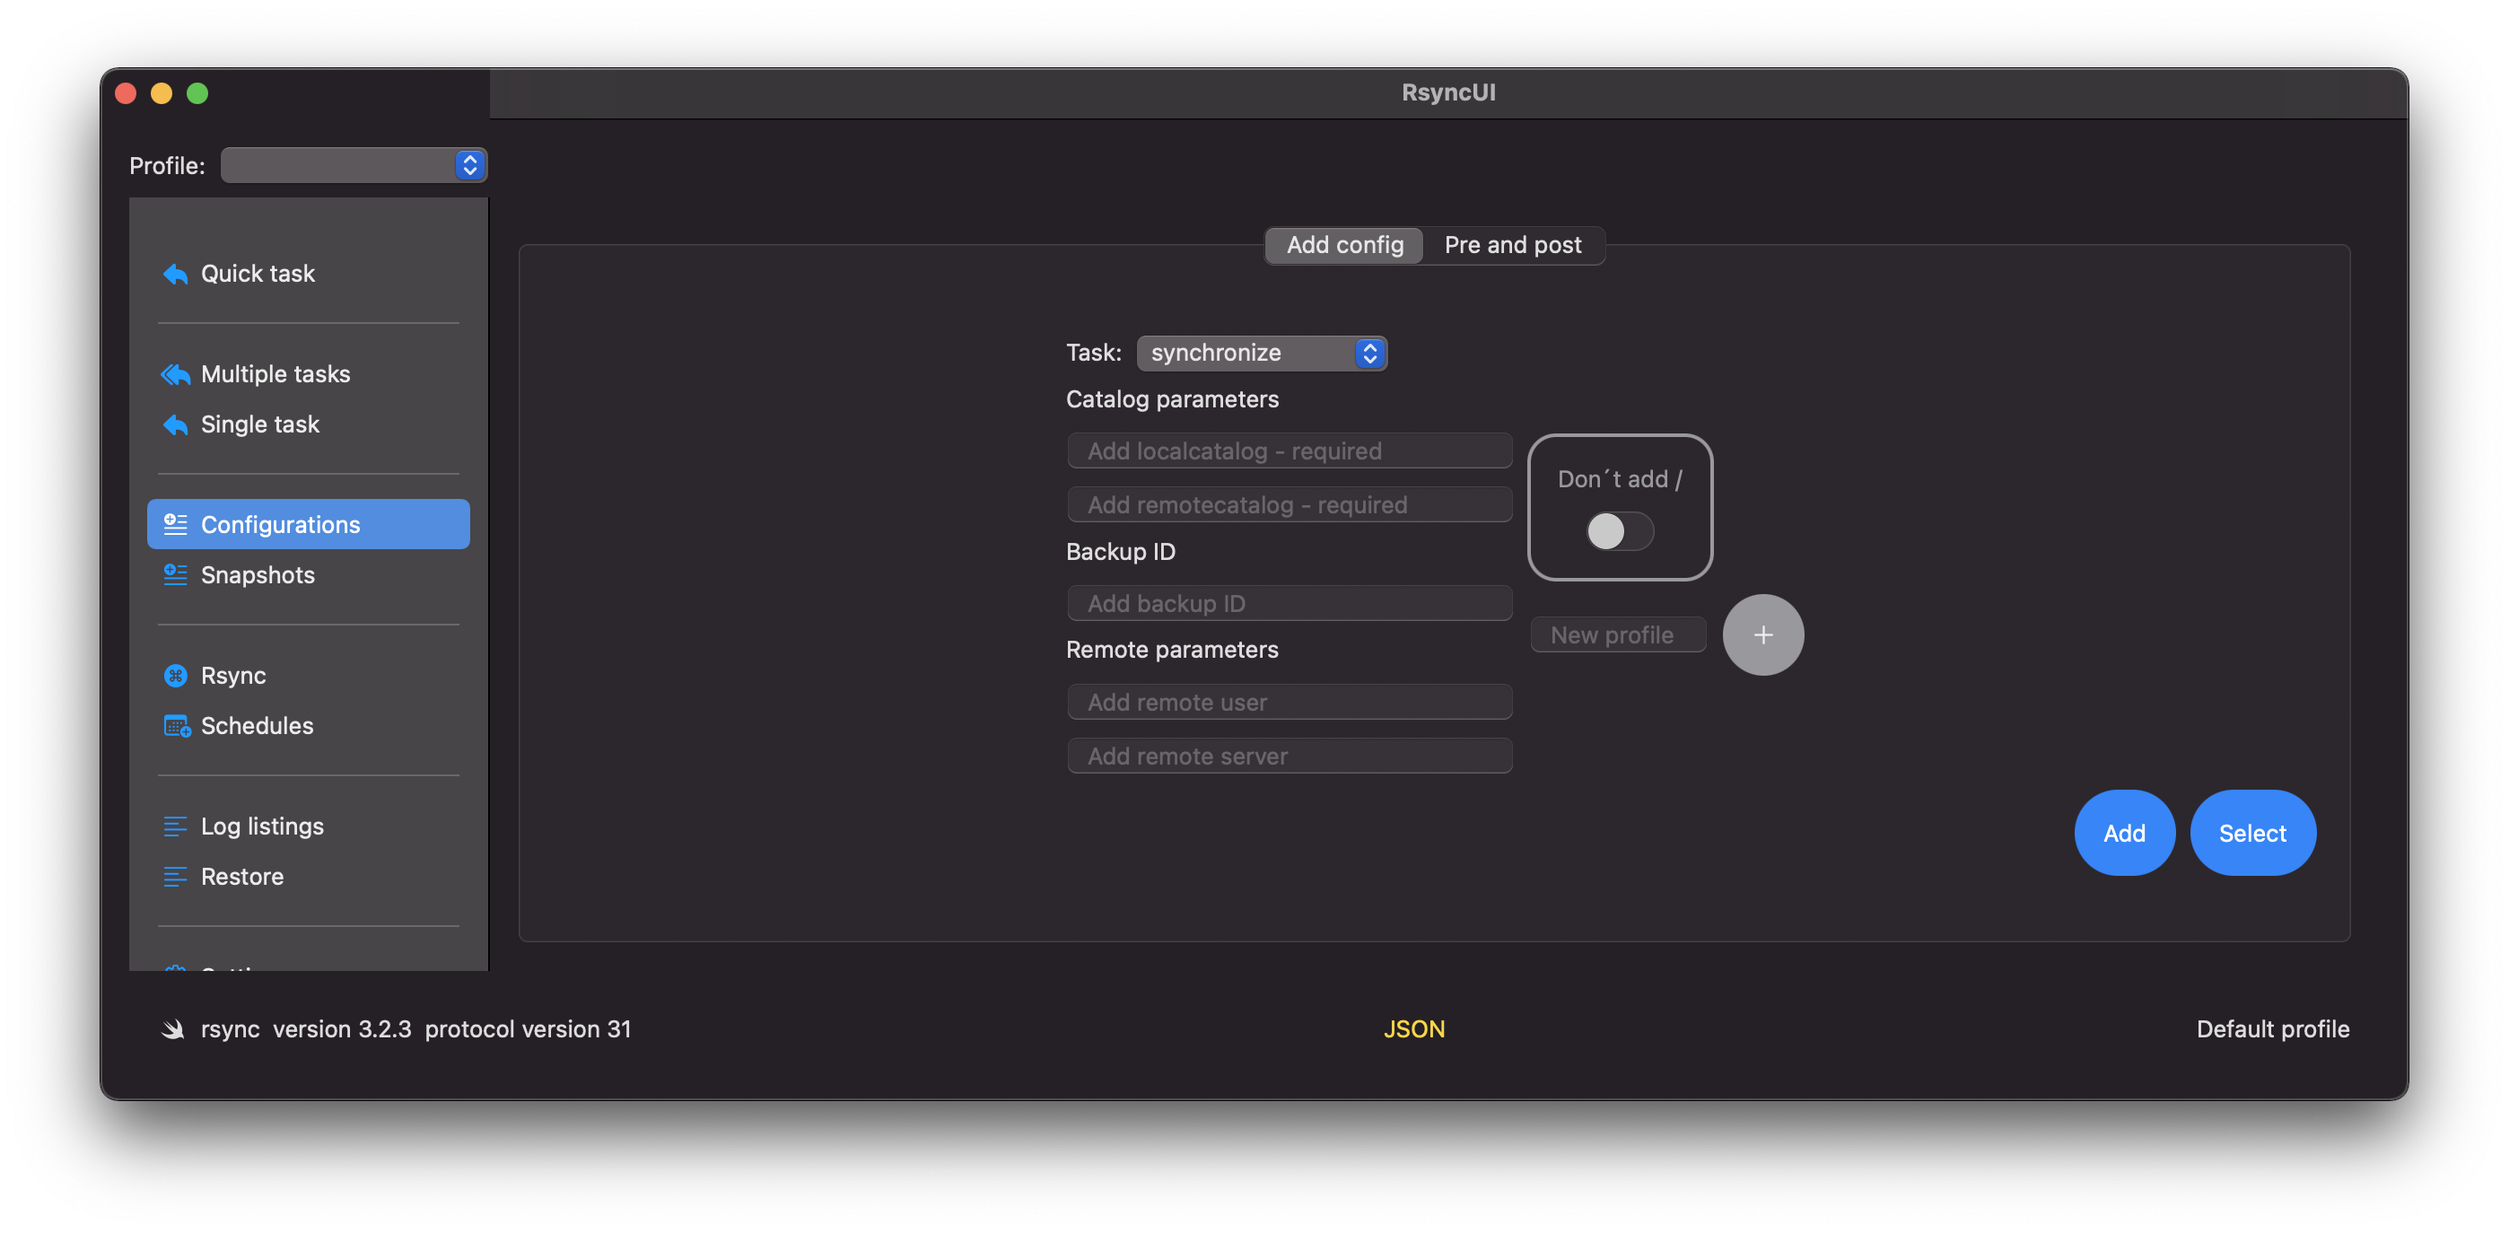
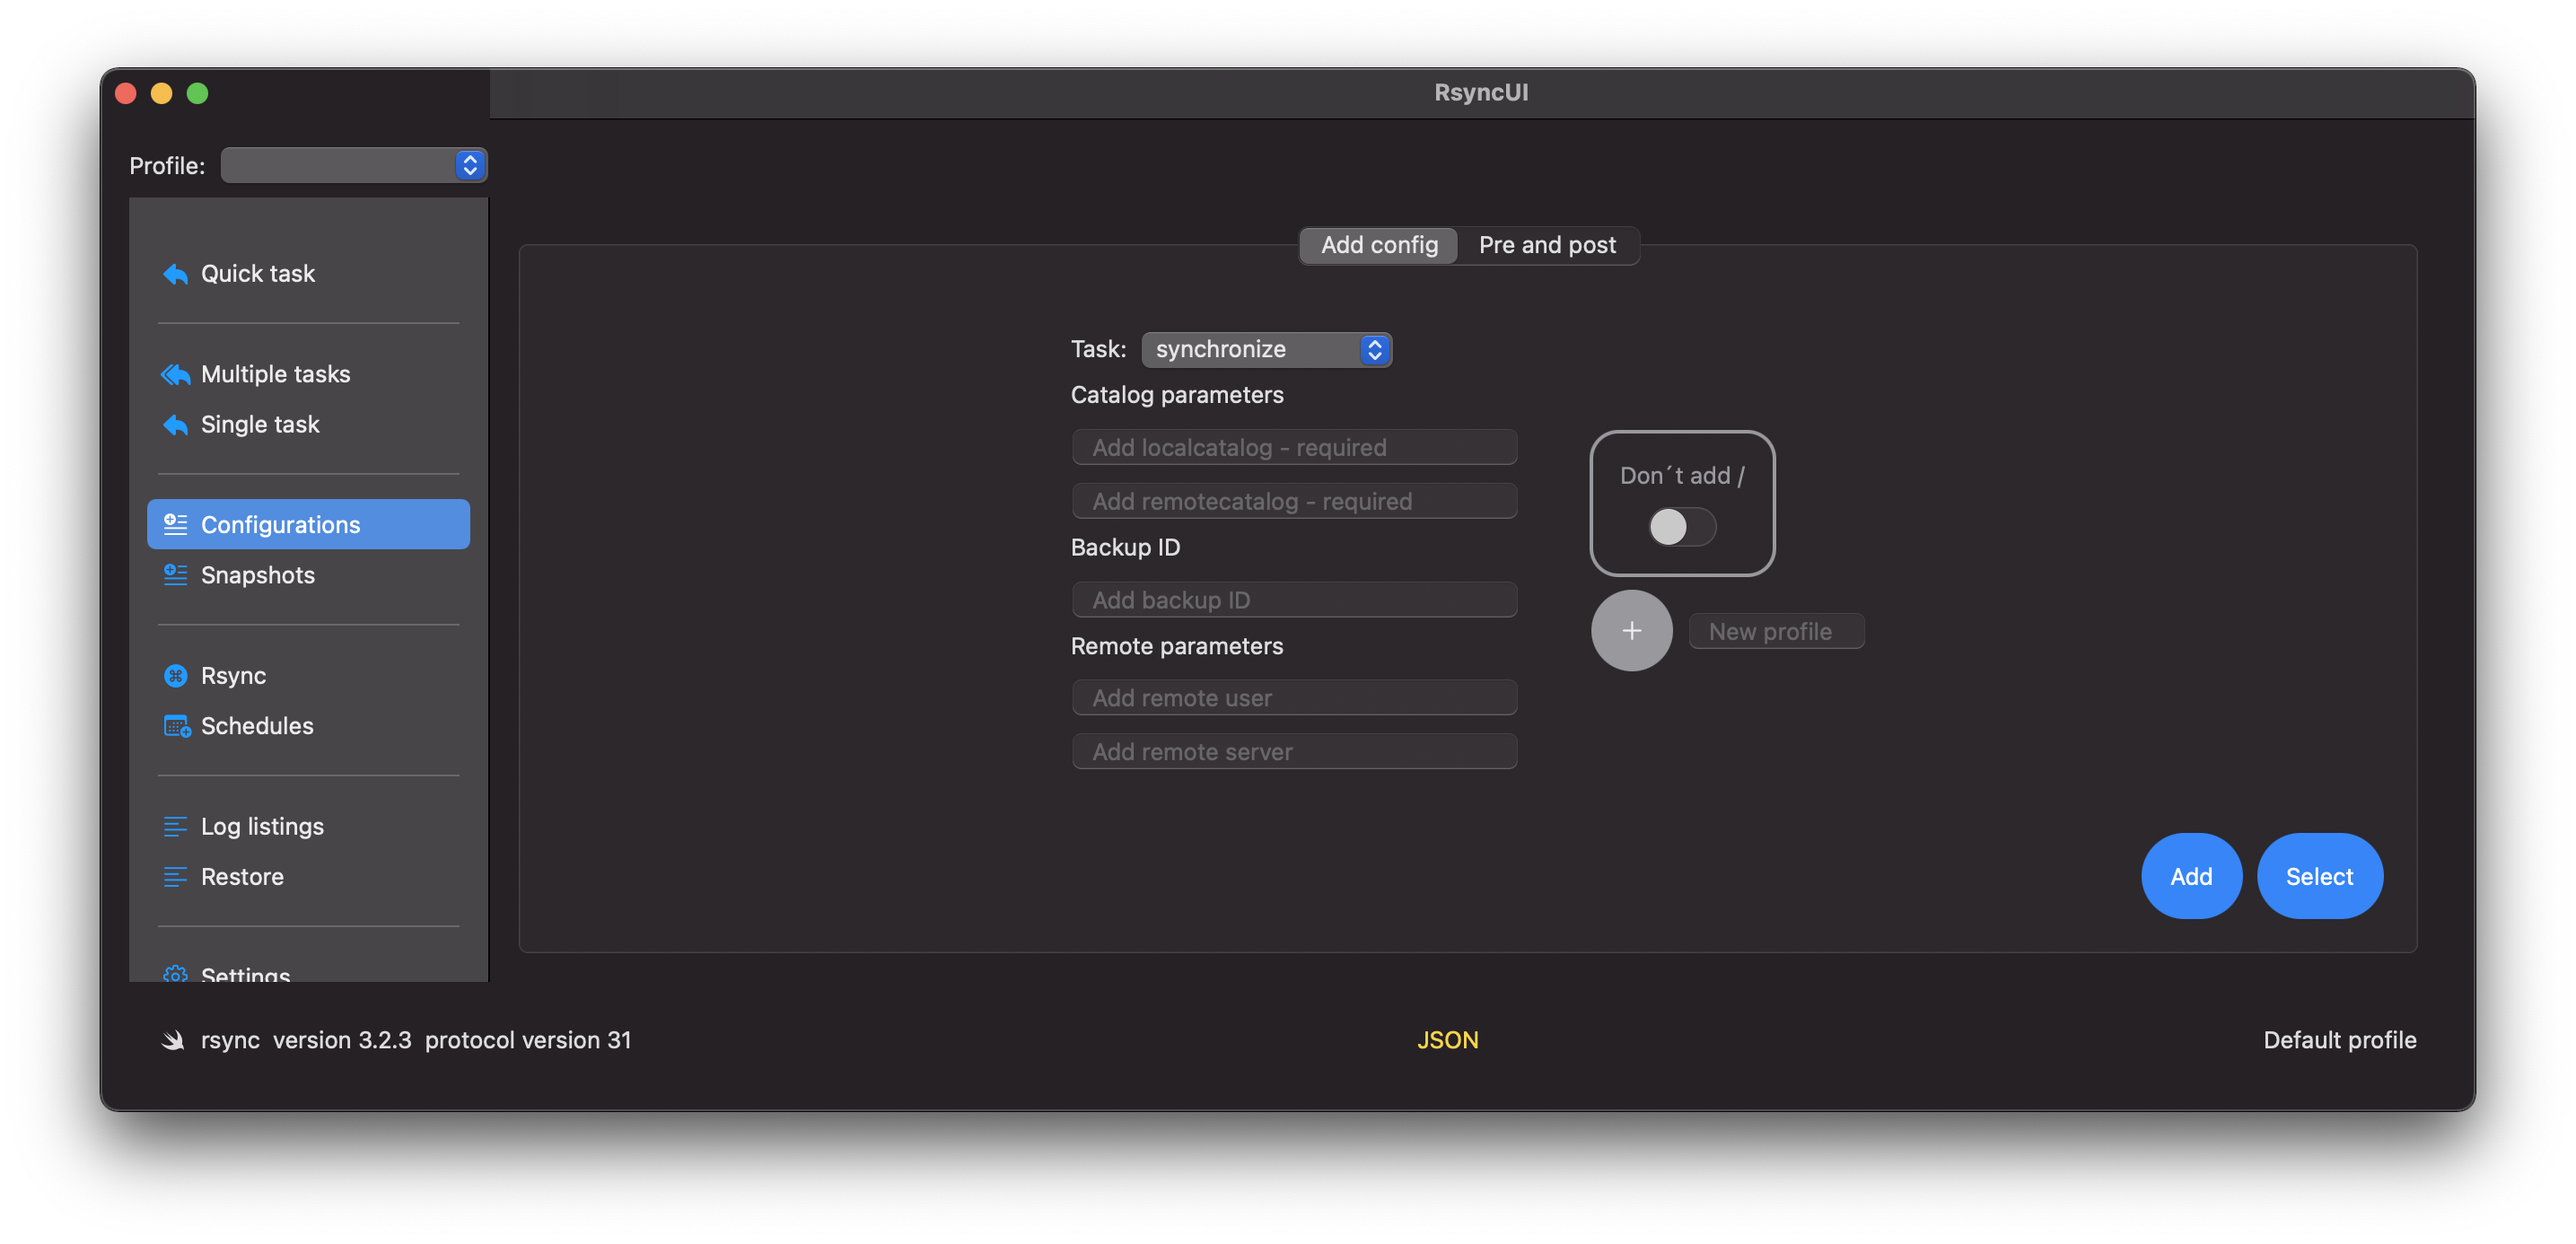
updates

diff --git a/content/post/Development.md b/content/post/Development.md
@@ -7,15 +7,15 @@ categories = ["SwiftUI"]
 description = "Why is the development of RsyncUI based on SwiftUI?"
 lastmod = "2021-03-12"
 +++
-The development of RsyncUI commenced in December 2020 and it will be released sometime in June or July 2021. The name of the next version is **RsyncUI**. It is built for **macOS Big Sur** and later, that is why it will be released as a new appliction and not replace the current version of RsyncOSX.
+The development of RsyncUI commenced in December 2020 and will be released sometime in June or July 2021. The name of the next version is **RsyncUI**. It is built for **macOS Big Sur** and later, that is why it will be released as a new appliction and not replace the current version of RsyncOSX.
 
-[SwiftUI](https://developer.apple.com/documentation/swiftui/) is a new **declarative framwork** for UI. Developing the UI based on SwiftUI compared to developing utilizing the [Cocoa](https://en.wikipedia.org/wiki/Cocoa_(API)) framework is a huge step forward. And the future of development on the Apple plattform is SwiftUI. Not only by SwiftUI, but in companion with the other Swift and Objective-C frameworks.
+[SwiftUI](https://developer.apple.com/documentation/swiftui/) is a new **declarative framework** for UI. Developing the UI based on SwiftUI compared to developing utilizing the [Cocoa](https://en.wikipedia.org/wiki/Cocoa_(API)) framework is a huge step forward. And the future of development on the Apple plattform is SwiftUI. Not only by SwiftUI, but in companion with the other Swift and Objective-C frameworks.
 
-[SwiftUI](https://en.wikipedia.org/wiki/Swift_(programming_language)) was released in 2019 and it is still young and in development. The code for the UI utilizing SwiftUI is minimal and easily separated from the Model (MVC). By hiding application logic and actions in properties, functions and closures will simplify the code. The declarative paradigm also makes the code for the UI cleaner and more easy to follow.
+[SwiftUI](https://en.wikipedia.org/wiki/Swift_(programming_language)) was released in 2019 and it is still young and in development. The code for the UI utilizing SwiftUI is minimal and easily separated from the Model (MVC). By hiding application logic in properties, functions and closures will simplify the code. The declarative paradigm also makes the code for the UI cleaner and more easy to follow.
 
 [Combine](https://developer.apple.com/documentation/combine) is also a new **declarative framework** from Apple. In RsyncUI it is used primarly for asynchronous tasks like validate input and listening for (two) notifications from the NotificationCenter. Those two notifications are very important for RsyncUI to work. It must be reliable and whenever they are triggered RsyncUI must catch them.
 
-The development of RsyncOSX began early in 2016 in it is a pure Swift (Cocoa and Foundation) based application. The next future generation of RsyncOSX is RsyncUI, a SwiftUI and Swift based application.
+The development of RsyncOSX began early in 2016. RsyncOSX is a pure Swift, Cocoa and Foundation, based application. The future generation of RsyncOSX is RsyncUI, a SwiftUI and Swift (Foundation) based application.
 
 ## About the development and progress
 
@@ -45,13 +45,13 @@ The basic datastructures in RsyncUI are two arrays of structs: configurations as
 
 Any change to the basic data structures causes RsyncUI to write data to permanent storage, reload data and recompute rsync parameters.
 
-### MVC model
+### MVC architecture
 
-RsyncUI is constructed in compliance to the Model View Controller (MVC) architecture. Any operation on the data is within the model. The modelpart is normal **imperativ** Swift development, with classes and structs. The UI part (view) is **declarative** SwiftUI development, with structs only. And the view is clearly separated from the model. Another important part of the UI (and SwiftUI) is the [single source of truth](https://developer.apple.com/documentation/swiftui/managing-user-interface-state). Single source of truth is also part of the MVC architecture.
+RsyncUI is constructed in compliance to the Model View Controller (MVC) architecture. Any operations on the data is within the model. The modelpart is normal **imperativ** Swift development, with classes and structs. The UI part (view) is **declarative** SwiftUI development, with structs only. The UI is clearly separated from the model. Another important part of SwiftUI is the [single source of truth](https://developer.apple.com/documentation/swiftui/managing-user-interface-state).
 
 ### Permanent storage
 
-RsyncUI saves data on permanent store either as PLIST or JSON format. The user can any time convert existing data to either of the formats. There is no preferences of which format to use and default is PLIST. JSON is a preferred format for exchanging data on the Internet and Swift has very good support encoding and decoding JSON.
+RsyncUI saves data on permanent store either as PLIST or JSON format. The user can any time convert existing data to either of the formats. There is no preferences of which format to use and default is PLIST. JSON is a preferred format for exchanging data on the Internet and Swift has very good support for encoding and decoding JSON.
 
 Details about JSON encoding and decoding of configurations are [here](https://github.com/rsyncOSX/RsyncUI/blob/main/RsyncUI/Model/Storage/PersistentStorage/PersistentStorageConfigurationJSON.swift). And details about PLIST encoding and decoding of configurations er [here](https://github.com/rsyncOSX/RsyncUI/blob/main/RsyncUI/Model/Storage/PersistentStorage/PersistentStorageConfigurationPLIST.swift).
 
@@ -87,9 +87,9 @@ var body: some View {
                    VStack(alignment: .leading) {
                        ToggleView(NSLocalizedString("Don´t add /", comment: "settings"), $donotaddtrailingslash)
                        HStack {
-                           EditValue(100, NSLocalizedString("New profile", comment: "settings"), $newprofile)
                            Button(action: { createprofile() }) { Image(systemName: "plus") }
                            .buttonStyle(GrayCircleButtonStyle())
+                           EditValue(100, NSLocalizedString("New profile", comment: "settings"), $newprofile)
                        }
                    }
                    // For center
@@ -117,7 +117,6 @@ var body: some View {
                                    .stroke(Color.red, lineWidth: 5)
                            )
                    }
-
                    Button(NSLocalizedString("Select", comment: "Select button")) { selectconfig() }
                        .buttonStyle(PrimaryButtonStyle())
                }
